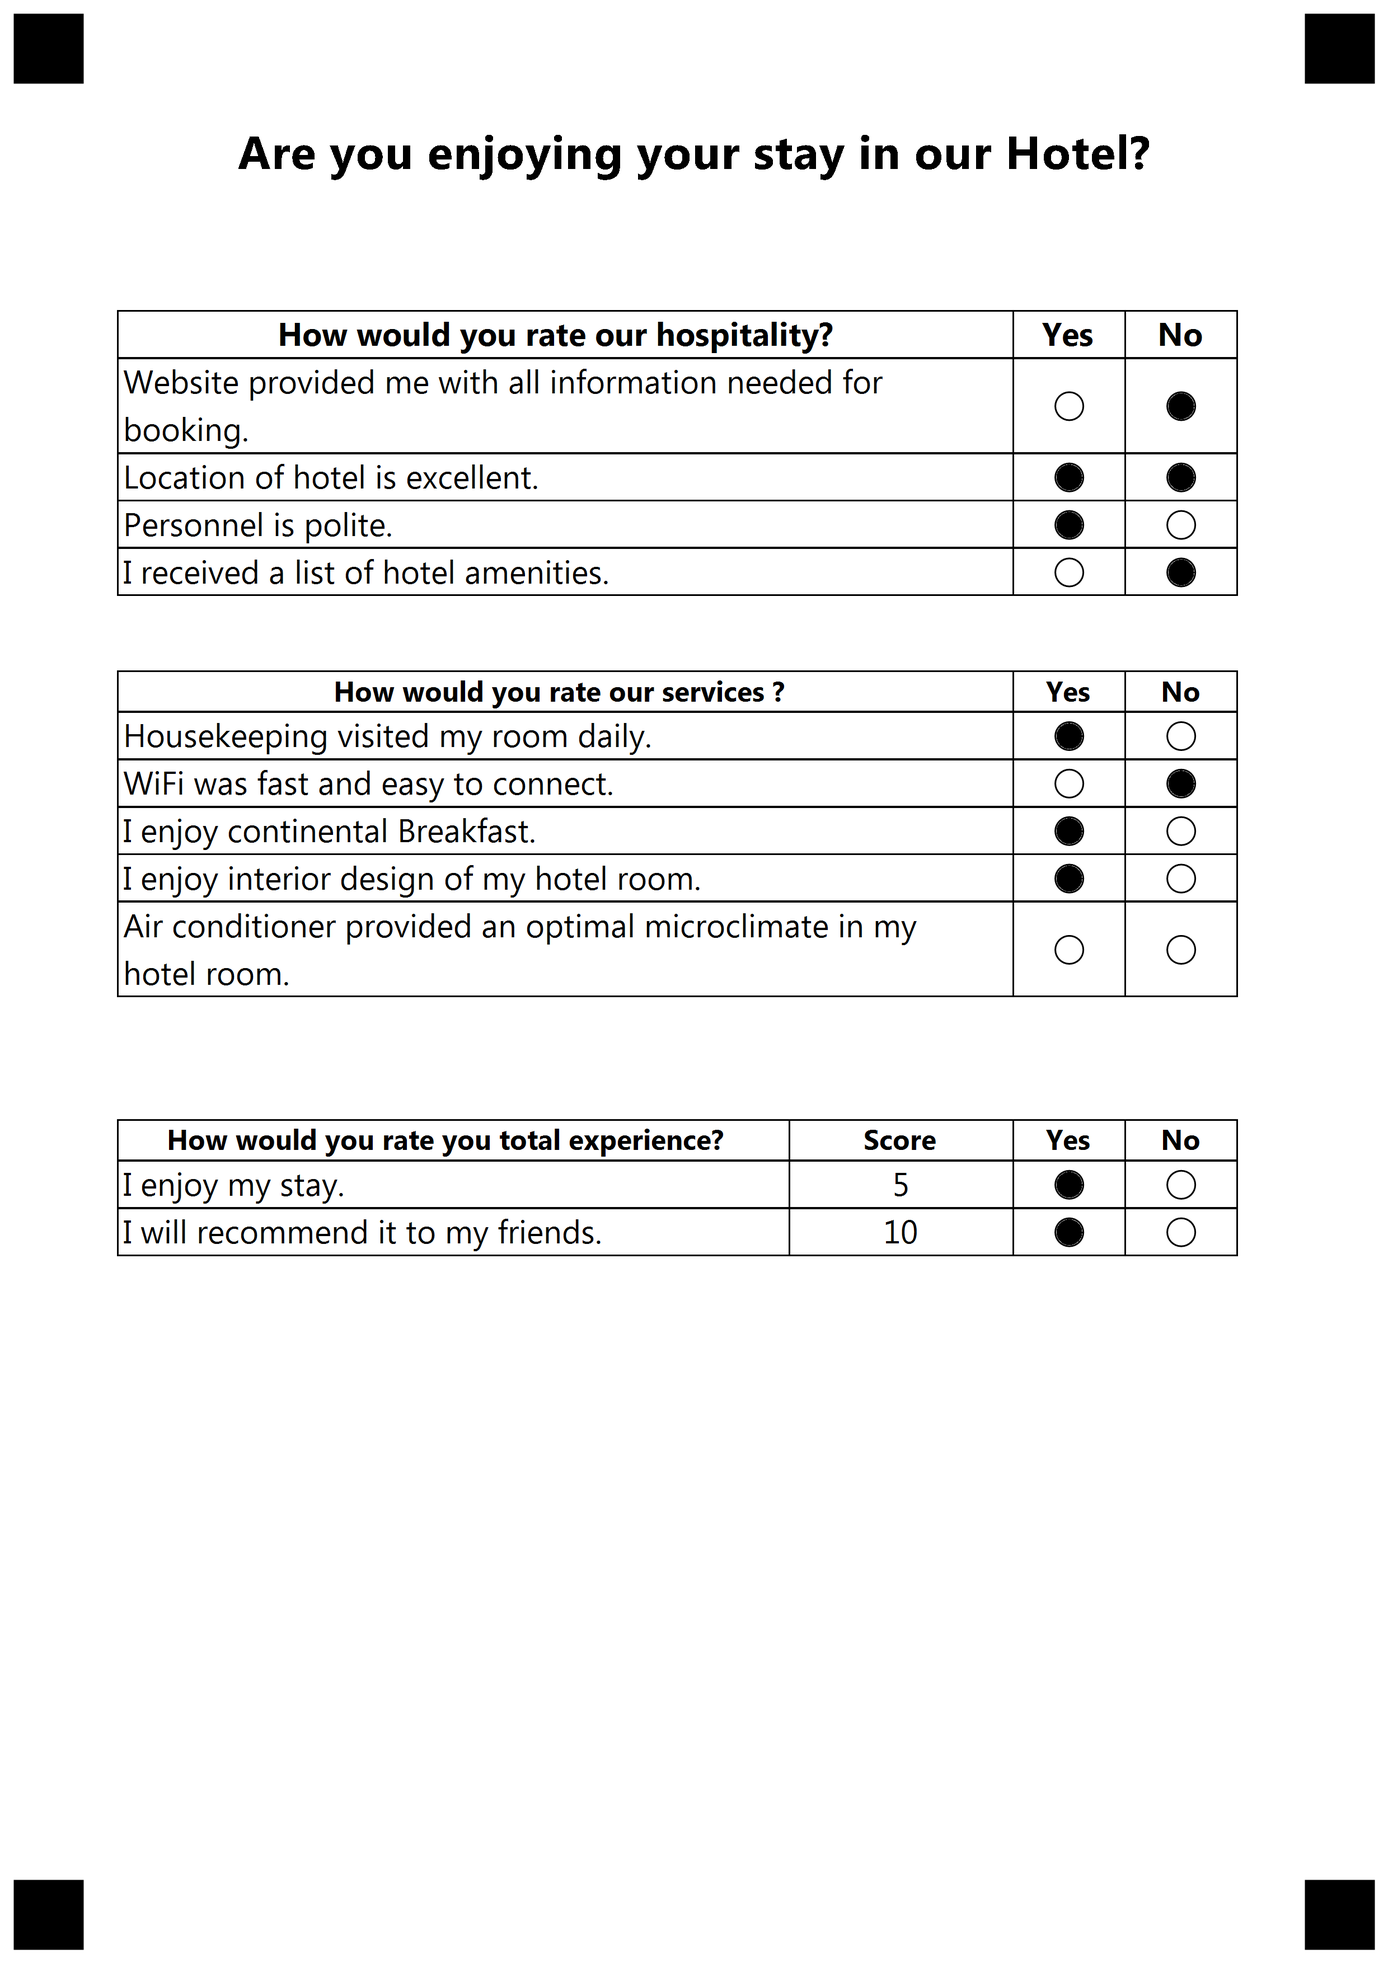
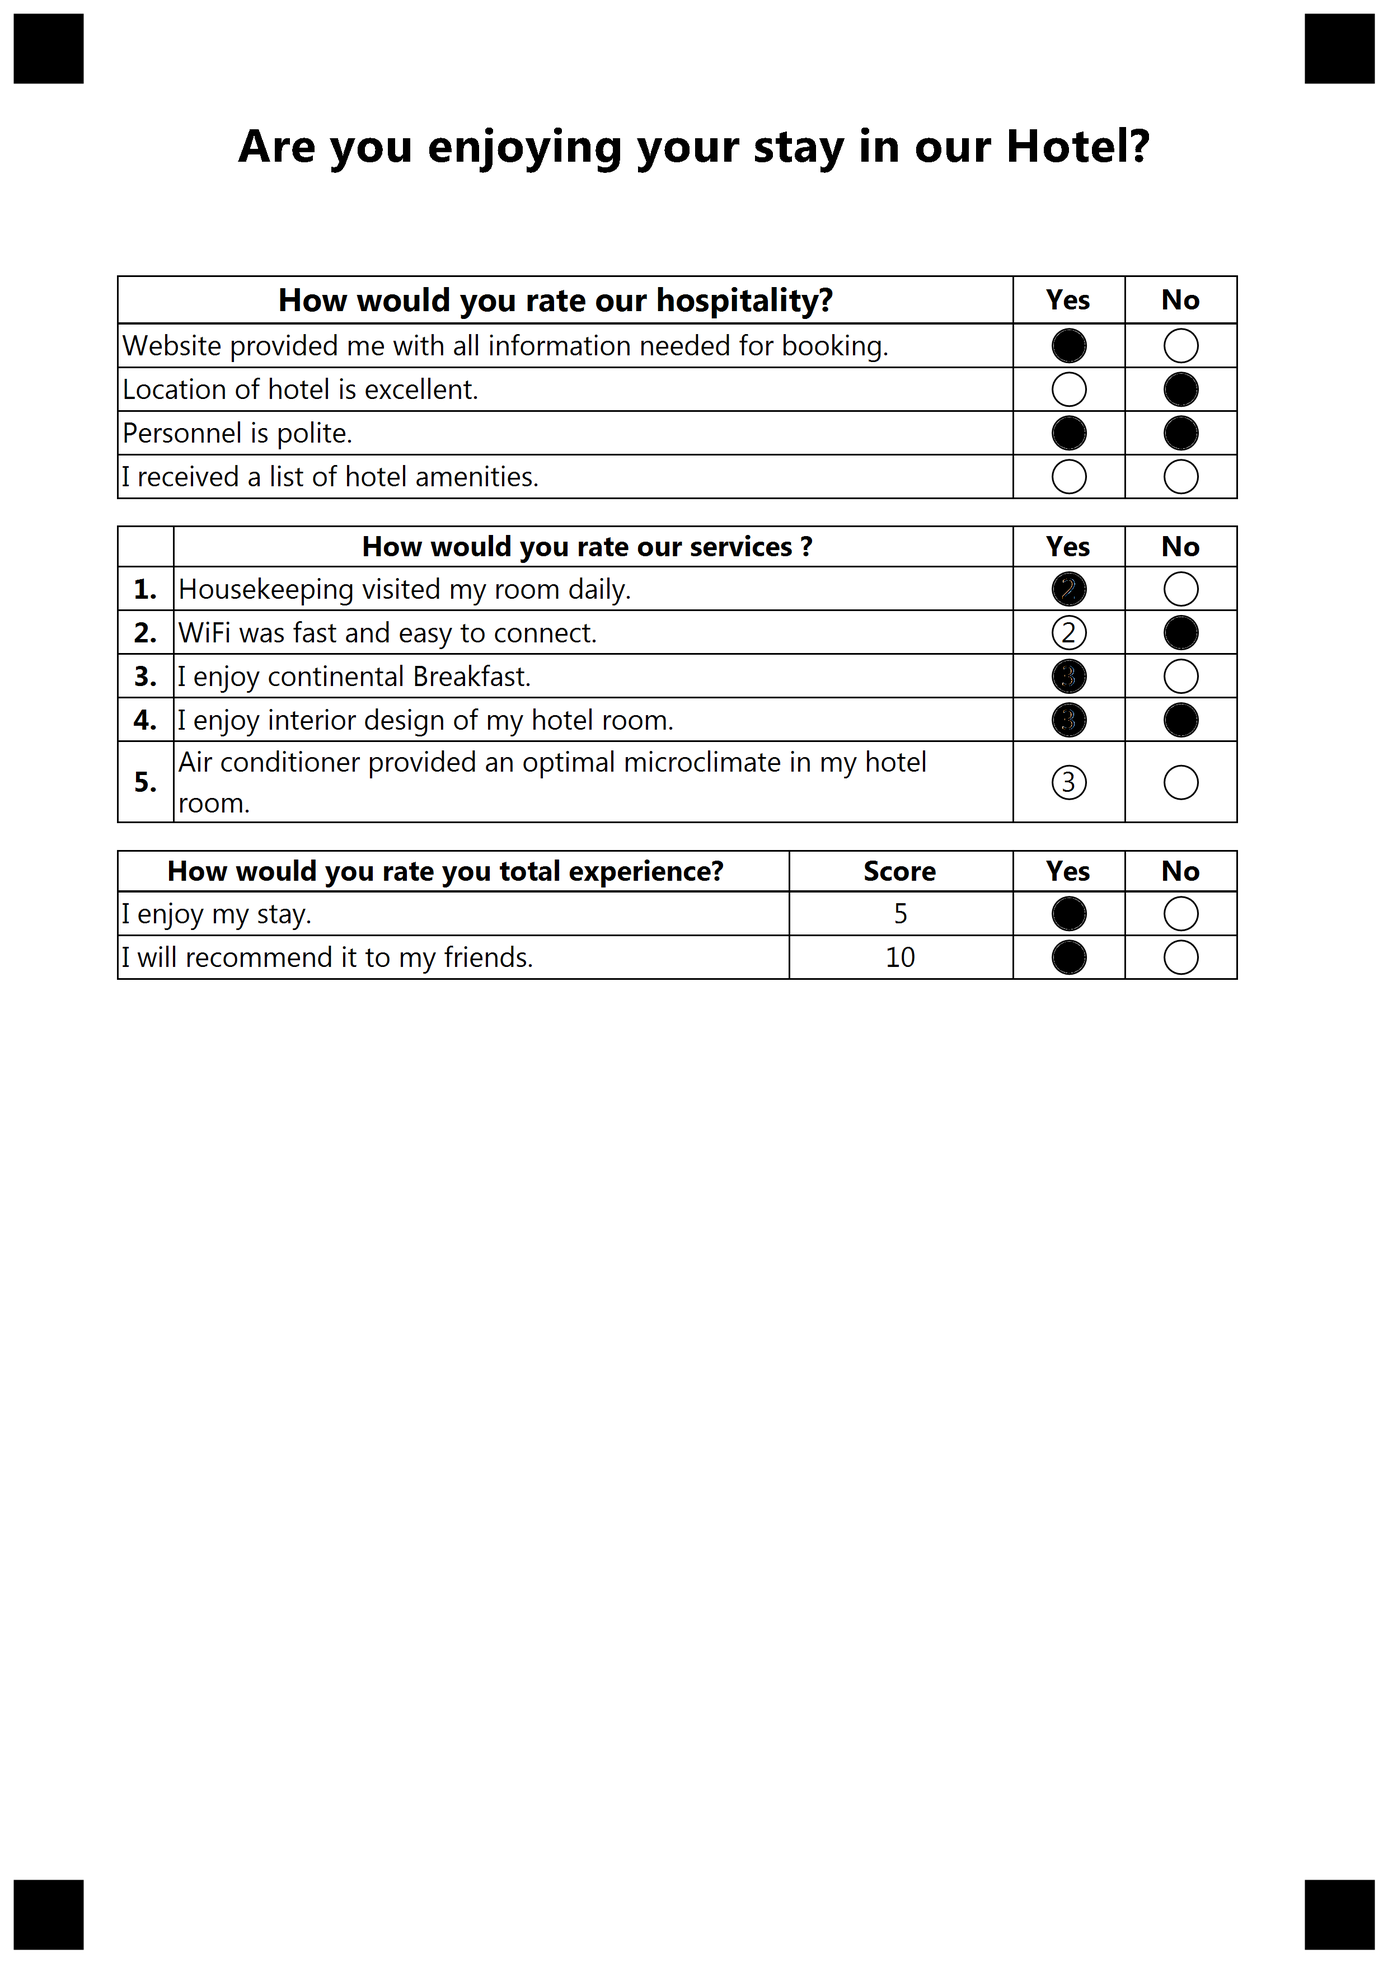
Added update for ScoreGroup elements. new element TableContent. new ScoreHeaderType's.

diff --git a/net/developer-guide/template-generation/json-documentation/elements-description/Score/_index.md b/net/developer-guide/template-generation/json-documentation/elements-description/Score/_index.md
@@ -42,6 +42,7 @@ ScoreQuestion element can be customized with attributes.
 | :- | :- | :- | :- | :- |
 |name|Name of ScoreQuestion|Required|-|"name":"Are you satisfied with services provided?"
 |element_type|Type of JSON object| Required|-| "element_type":"ScoreQuestion"
+|score_display|Describe display behavior for score value. <p>DisplayAsExtraColumn = Score value will be displayed as extra column and will be visible to user.</p>  <p> DontDisplay = Score value will be hidden. </p> <p>DisplayInsideCell = Score value will be displayed inside each cell.</p>|Optional|DontDisplay|"score_display":"DisplayAsExtraColumn"
 |children|Array of other elements nested in this container|Required|-|see examples below
 |row_proportions|In table structure represent amount of width for each column in percent. Total value must be 100%. Amount of column must be equal to ScoreHeader children + 1(ScoreAnswer)|Required|-|"row_proportions": [80,10,10]|
 |font_family|The font family of the text|Optional|Segoe UI|"font_family":"arial"|
@@ -63,7 +64,7 @@ ScoreHeader element can be customized with attributes.
 | :- | :- | :- | :- | :- |
 |name|Name of ScoreHeader|Required|-|"name":"Yes"
 |element_type|Type of JSON object| Required|-| "element_type":"ScoreHeader"
-|header_type|Set content behavior inside this column <p>Positive = Value will be added upon bubble filling. </p> <p>Amount = Only displaying of value. </p> <p>Negative = upon filling value will not be added</p>|Required|Positive|<p>"score_header_type":"amount"</p><p>"score_header_type":"positive"</p><p>"score_header_type":"negative"</p>
+|header_type|Set content behavior inside this column <p>Positive = Value will be added upon bubble filling. </p> <p>Amount = Only displaying of value. </p> <p>Negative = upon filling value will not be added</p> <p>Question = this header will store question text, instead of first column</p> <p>Content = this column will store content from TableContent element</p>|Required|Positive|<p>"score_header_type":"amount"</p><p>"score_header_type":"positive"</p><p>"score_header_type":"negative"</p><p>"score_header_type":"question"</p><p>"score_header_type":"content"</p>
 
 
 ## **ScoreAnswer element**
@@ -76,12 +77,29 @@ ScoreAnswer element can be customized with attributes.
 
 |**Attribute**|**Attribute Description**|**Required/Optional**|**Attribute Default Value**|**Attribute Usage Example**|
 | :- | :- | :- | :- | :- |
+|element_type|Type of JSON object| Required|-| "element_type":"ScoreAnswer"
 |score|number value that will be added to total sum of ScoreQuestion|Required|-|"score":5
 |font_family|The font family of the content|Optional|Segoe UI|"font_family":"Arial"|
 |font_style|The style of the content|Optional|FontStyle.Regular|"font_style":"Bold"|
 |font_size|The size of the text content|Optional|12|"font_size":16|
 |align|type of horizontal alignment for this text inside it's cell|Optional|left|<p>"align":"left"</p><p>"align":"right"</p><p>"align":"center"</p>
 
+## **TableContent element**
+The TableContent element identified by field **"element_type"** and it's value **"TableContent"**.
+Can only be positioned inside of ScoreQuestion element as child.
+Represent one string of text inside specific cell. Useful when creating complex and custom tables.
+
+### **Attributes**
+TableContent element can be customized with attributes.
+
+|**Attribute**|**Attribute Description**|**Required/Optional**|**Attribute Default Value**|**Attribute Usage Example**|
+| :- | :- | :- | :- | :- |
+|element_type| Type of JSON object|Required|-|"element_type":"TableContent"
+|name| String value of content|Required|-|"name":"Thank you for purchasing!"
+|font_family|The font family of the content|Optional|Segoe UI|"font_family":"Arial"|
+|font_style|The style of the content|Optional|FontStyle.Regular|"font_style":"Bold"|
+|font_size|The size of the text content|Optional|12|"font_size":16|
+|align|Type of horizontal alignment inside parent element|Optional|left|<p>"align":"right"</p><p>"align":"center"</p><p>"align":"left"</p>
 
 
 ### **Example of ScoreGroup structure**
@@ -118,10 +136,14 @@ ScoreAnswer element can be customized with attributes.
                                             "children": [{
                                                     "name": "Yes",
                                                     "header_type": "Positive",
+													"align": "center",
+													"font_style":"bold",
                                                     "element_type": "ScoreHeader"
                                                 }, {
                                                     "name": "No",
                                                     "header_type": "Negative",
+													"align": "center",
+													"font_style":"bold",
                                                     "element_type": "ScoreHeader"
                                                 }, {
                                                     "Score": 1,
@@ -147,18 +169,36 @@ ScoreAnswer element can be customized with attributes.
                                             "font_style": "Bold",
                                             "font_size": 12,
                                             "row_proportions": [
-                                                80,
+												5,
+                                                75,
                                                 10,
                                                 10
                                             ],
                                             "name": "How would you rate our services ?",
+											"score_display":"DisplayInsideCell",
                                             "children": [{
+													"name":"",
+													"header_type":"Content",
+													"align": "center",
+													"font_style":"bold",
+													"element_type":"ScoreHeader",
+												},{
+													"name":"How would you rate our services ?",
+													"header_type":"Question",
+													"align": "center",
+													"font_style":"bold",
+													"element_type":"ScoreHeader"
+												},{
                                                     "name": "Yes",
                                                     "header_type": "Positive",
+													"align": "center",
+													"font_style":"bold",
                                                     "element_type": "ScoreHeader"
                                                 }, {
                                                     "name": "No",
                                                     "header_type": "Negative",
+													"align": "center",
+													"font_style":"bold",
                                                     "element_type": "ScoreHeader"
                                                 }, {
                                                     "Score": 2,
@@ -180,7 +220,42 @@ ScoreAnswer element can be customized with attributes.
                                                     "Score": 3,
                                                     "element_type": "ScoreAnswer",
                                                     "name": "Air conditioner provided an optimal microclimate in my hotel room.",
-                                                }
+                                                },{
+													"element_type":"TableContent",
+													"row":1,
+													"column":1,
+													"name":"1.",
+													"align":"center",
+													"font_style":"bold"
+												},{
+													"element_type":"TableContent",
+													"row":2,
+													"column":1,
+													"name":"2.",
+													"align":"center",
+													"font_style":"bold"
+												},{
+													"element_type":"TableContent",
+													"row":3,
+													"column":1,
+													"name":"3.",
+													"align":"center",
+													"font_style":"bold"
+												},{
+													"element_type":"TableContent",
+													"row":4,
+													"column":1,
+													"name":"4.",
+													"align":"center",
+													"font_style":"bold"
+												},{
+													"element_type":"TableContent",
+													"row":5,
+													"column":1,
+													"name":"5.",
+													"align":"center",
+													"font_style":"bold"
+												}
                                             ],
                                             "element_type": "ScoreQuestion"
                                         }, {
@@ -194,17 +269,24 @@ ScoreAnswer element can be customized with attributes.
                                                 10
                                             ],
                                             "name": "How would you rate you total experience?",
+											"score_display":"DisplayAsExtraColumn",
                                             "children": [{
                                                     "name": "Score",
                                                     "header_type": "Amount",
+													"align": "center",
+													"font_style":"bold",
                                                     "element_type": "ScoreHeader"
                                                 }, {
                                                     "name": "Yes",
                                                     "header_type": "Positive",
+													"align": "center",
+													"font_style":"bold",
                                                     "element_type": "ScoreHeader"
                                                 }, {
                                                     "name": "No",
                                                     "header_type": "Negative",
+													"align": "center",
+													"font_style":"bold",
                                                     "element_type": "ScoreHeader"
                                                 }, {
                                                     "Score": 5,
@@ -236,7 +318,6 @@ ScoreAnswer element can be customized with attributes.
     ],
     "element_type": "Template"
 }
-
 ````
 
 **Result**
@@ -251,12 +332,13 @@ ScoreAnswer element can be customized with attributes.
 
 ```text
 Element Name,Value,
-How would you rate our hospitality?,"Location of hotel is excellent.,Personnel is polite."
+How would you rate our hospitality?,"Website provided me with all information needed for booking.,Personnel is polite."
 How would you rate our hospitality?_total,"6"
 How would you rate our services ?,"Housekeeping visited my room daily.,I enjoy continental Breakfast.,I enjoy interior design of my hotel room."
 How would you rate our services ?_total,"8"
 How would you rate you total experience?,"I enjoy my stay.,I will recommend it to my friends."
 How would you rate you total experience?_total,"15"
-hotel guest survey,"29"
+product survey_total,"29"
+
 
 ```

diff --git a/net/developer-guide/template-generation/txt-documentation/elements-description/Score/_index.md b/net/developer-guide/template-generation/txt-documentation/elements-description/Score/_index.md
@@ -44,6 +44,7 @@ ScoreQuestion element can be customized with attributes, each attribute must be
 |**Element**|**Prefix**|**Attribute**|**Attribute Description**|**Required/Optional**|**Attribute Default Value**|**Attribute Usage Example**|
 | :- | :- | :- | :- | :- | :- | :- |
 |ScoreQuestion|?score_question=|row_proportions|In table structure represent amount of width for each column in percent. Total value must be 100%. Amount of column must be equal to ScoreHeader children + 1(ScoreAnswer)|Required|-|row_proportions=80%-10%-10%|
+|||score_display|Describe display behavior for score value. <p>DisplayAsExtraColumn = Score value will be displayed as extra column and will be visible to user.</p>  <p> DontDisplay = Score value will be hidden. </p> <p>DisplayInsideCell = Score value will be displayed inside each cell.</p>|Optional|DontDisplay|score_display=DisplayAsExtraColumn
 |||font_family|The font family of the text|Optional|Segoe UI|font_family=arial|
 |||font_style|The style of the content|Optional|FontStyle.Regular|font_style=bold|
 |||font_size|The size of the text content|Optional|12|font_size=16|
@@ -62,7 +63,7 @@ ScoreHeader element can be customized with attributes, each attribute must be o
 
 |**Element**|**Prefix**|**Attribute**|**Attribute Description**|**Required/Optional**|**Attribute Default Value**|**Attribute Usage Example**|
 | :- | :- | :- | :- | :- | :- | :- |
-|ScoreHeader|?score_header=|header_type|Set content behavior inside this column <p>Positive = Value will be added upon bubble filling. </p> <p>Amount = Only displaying of value. </p> <p>Negative = upon filling value will not be added</p>|Required|Positive|<p>score_header_type=amount</p><p>score_header_type=positive</p><p>score_header_type=negative</p>
+|ScoreHeader|?score_header=|header_type|Set content behavior inside this column <p>Positive = Value will be added upon bubble filling. </p> <p>Amount = Only displaying of value. </p> <p>Negative = upon filling value will not be added</p> <p>Question = this header will store question text, instead of first column</p> <p>Content = this column will store content from TableContent element</p>|Required|Positive|<p>score_header_type=amount</p><p>score_header_type=positive</p><p>score_header_type=negative</p><p>score_header_type=question</p><p>score_header_type=content</p>
 
 
 ## **ScoreAnswer element**
@@ -81,7 +82,20 @@ ScoreAnswer element can be customized with attributes, each attribute must be o
 |||font_size|The size of the text content|Optional|12|font_size=16|
 |||align|type of horizontal alignment for this text inside it's cell|Optional|left|<p>align=left</p><p>align=right</p><p>align=center</p>
 
+## **TableContent element**
+Starts with **?table_content=** prefix that sets the name and value of the element.
+Can only be positioned inside of ScoreQuestion element as child.
+Represent one string of text inside specific cell. Useful when creating complex and custom tables.
 
+### **Attributes**
+TableContent element can be customized with attributes.
+
+|**Element**|**Prefix**|**Attribute**|**Attribute Description**|**Required/Optional**|**Attribute Default Value**|**Attribute Usage Example**|
+| :- | :- | :- | :- | :- | :- | :- |
+|TableContent|?table_content=|font_family|The font family of the content|Optional|Segoe UI|font_family=Arial|
+|||font_style|The style of the content|Optional|FontStyle.Regular|font_style=Bold|
+|||font_size|The size of the text content|Optional|12|font_size=16|
+|||align|Type of horizontal alignment inside parent element|Optional|left|<p>align=right"</p><p>align=center</p><p>align=left</p>
 
 ### **Example of ScoreGroup structure**
 ```text
@@ -102,8 +116,12 @@ ScoreAnswer element can be customized with attributes, each attribute must be o
 	row_proportions=80%-10%-10%
 ?score_header=Yes
 	header_type=positive
+	font_style=bold
+	align=center
 ?score_header=No
 	header_type=negative
+	font_style=bold
+	align=center
 ?score_answer=Website provided me with all information needed for booking.
 	score=1
 	align=left
@@ -120,11 +138,22 @@ ScoreAnswer element can be customized with attributes, each attribute must be o
 ?score_question=How would you rate our services ?
 	font_size=12
 	font_style=bold	
-	row_proportions=80%-10%-10%
+	row_proportions=5%-75%-10%-10%
+	score_display=DisplayInsideCell
+?score_header=
+	header_type=Content
+?score_header=How would you rate our services ?
+	header_type=Question
+	align=center
+	font_style=bold
 ?score_header=Yes
 	header_type=positive
+	font_style=bold
+	align=center
 ?score_header=No
 	header_type=negative
+	font_style=bold
+	align=center
 ?score_answer=Housekeeping visited my room daily.
 	score=2
 	align=left
@@ -140,17 +169,49 @@ ScoreAnswer element can be customized with attributes, each attribute must be o
 ?score_answer=Air conditioner provided an optimal microclimate in my hotel room.
 	score=3
 	align=left
+?table_content=1.
+	row=1
+	column=1
+	font_style=bold
+	align=center
+?table_content=2.
+	row=2
+	column=1
+	font_style=bold
+	align=center
+?table_content=3.
+	row=3
+	column=1
+	font_style=bold
+	align=center
+?table_content=4.
+	row=4
+	column=1
+	font_style=bold
+	align=center
+?table_content=5.
+	row=5
+	column=1
+	font_style=bold
+	align=center
 &score_question
 ?score_question=How would you rate you total experience?
 	font_size=12
 	font_style=bold	
 	row_proportions=60%-20%-10%-10%
+	score_display=DisplayAsExtraColumn
 ?score_header=Score
 	header_type=Amount
+	font_style=bold
+	align=center
 ?score_header=Yes
 	header_type=positive
+	font_style=bold
+	align=center
 ?score_header=No
 	header_type=negative
+	font_style=bold
+	align=center
 ?score_answer=I enjoy my stay.
 	score=5
 	align=left
@@ -176,11 +237,13 @@ ScoreAnswer element can be customized with attributes, each attribute must be o
 ```text
 Element Name,Value,
 How would you rate our hospitality?,"Location of hotel is excellent.,Personnel is polite."
+How would you rate our hospitality?,"Website provided me with all information needed for booking.,Personnel is polite."
 How would you rate our hospitality?_total,"6"
 How would you rate our services ?,"Housekeeping visited my room daily.,I enjoy continental Breakfast.,I enjoy interior design of my hotel room."
 How would you rate our services ?_total,"8"
 How would you rate you total experience?,"I enjoy my stay.,I will recommend it to my friends."
 How would you rate you total experience?_total,"15"
 hotel guest survey,"29"
+product survey_total,"29"
 
 ```
